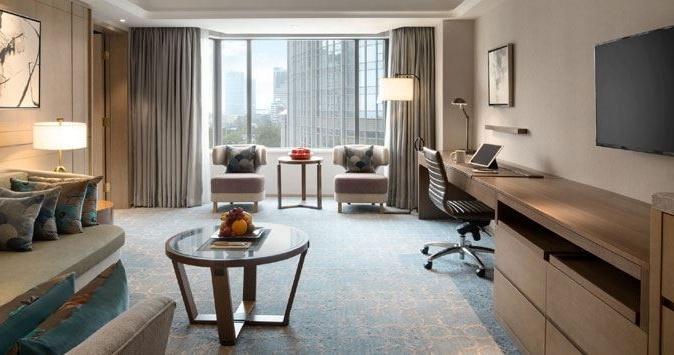
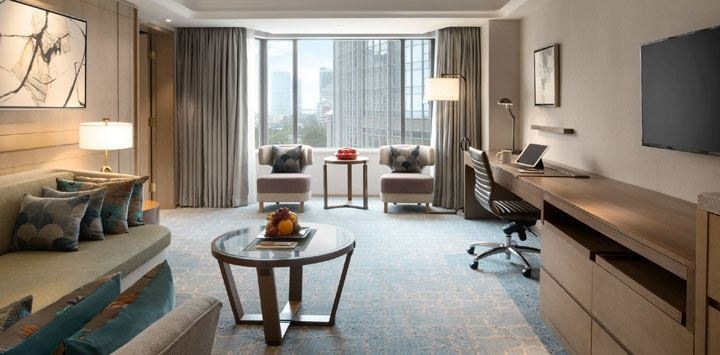
Simplify gallery layout. Replace cropped images with optimized full ones.

diff --git a/src/pages/room-details/room-details.scss b/src/pages/room-details/room-details.scss
@@ -10,27 +10,22 @@
   max-width: 1920px;
 
   &__gallery {
-    position: relative;
+    display: grid;
+    line-height: 0;
+    grid-template-columns: 981fr 459fr;
+    grid-template-rows: repeat(2, minmax(0, 1fr));
+    aspect-ratio: 1440 / 485;
   }
 
-  &__gallery-aspect-ratio {
-    padding-top: calc(485 / 1440 * 100%);
+  &__image {
     width: 100%;
-  }
+    height: 100%;
+    object-fit: cover;
 
-  &__gallery-content {
-    position: absolute;
-    top: 0;
-    right: 0;
-    bottom: 0;
-    left: 0;
-    display: flex;
-  }
-
-  &__gallery-secondary-images {
-    display: flex;
-    overflow-x: hidden;
-    flex-direction: column;
+    &_main {
+      grid-row-start: 1;
+      grid-row-end: 3;
+    }
   }
 
   &__main-content {
